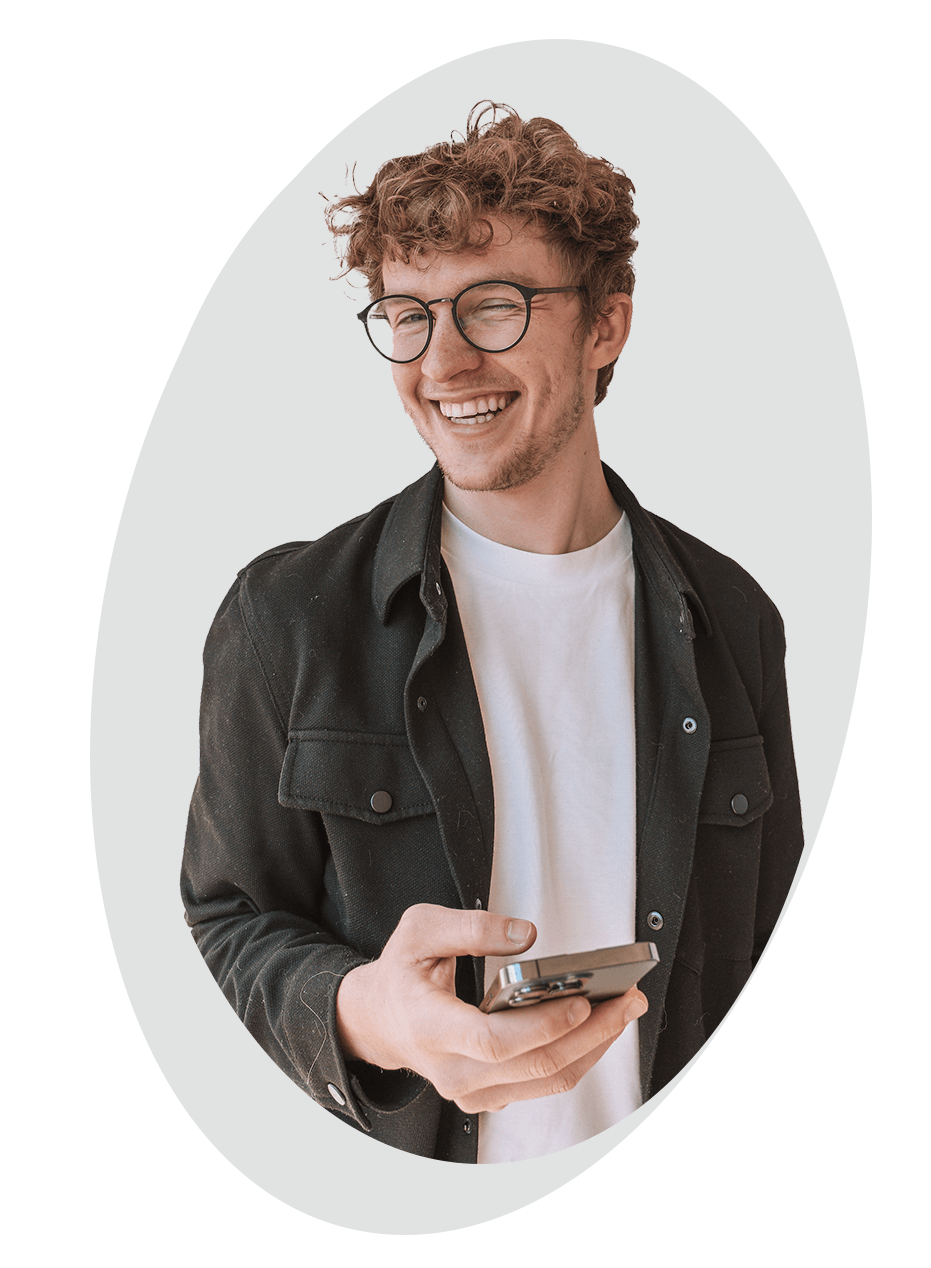
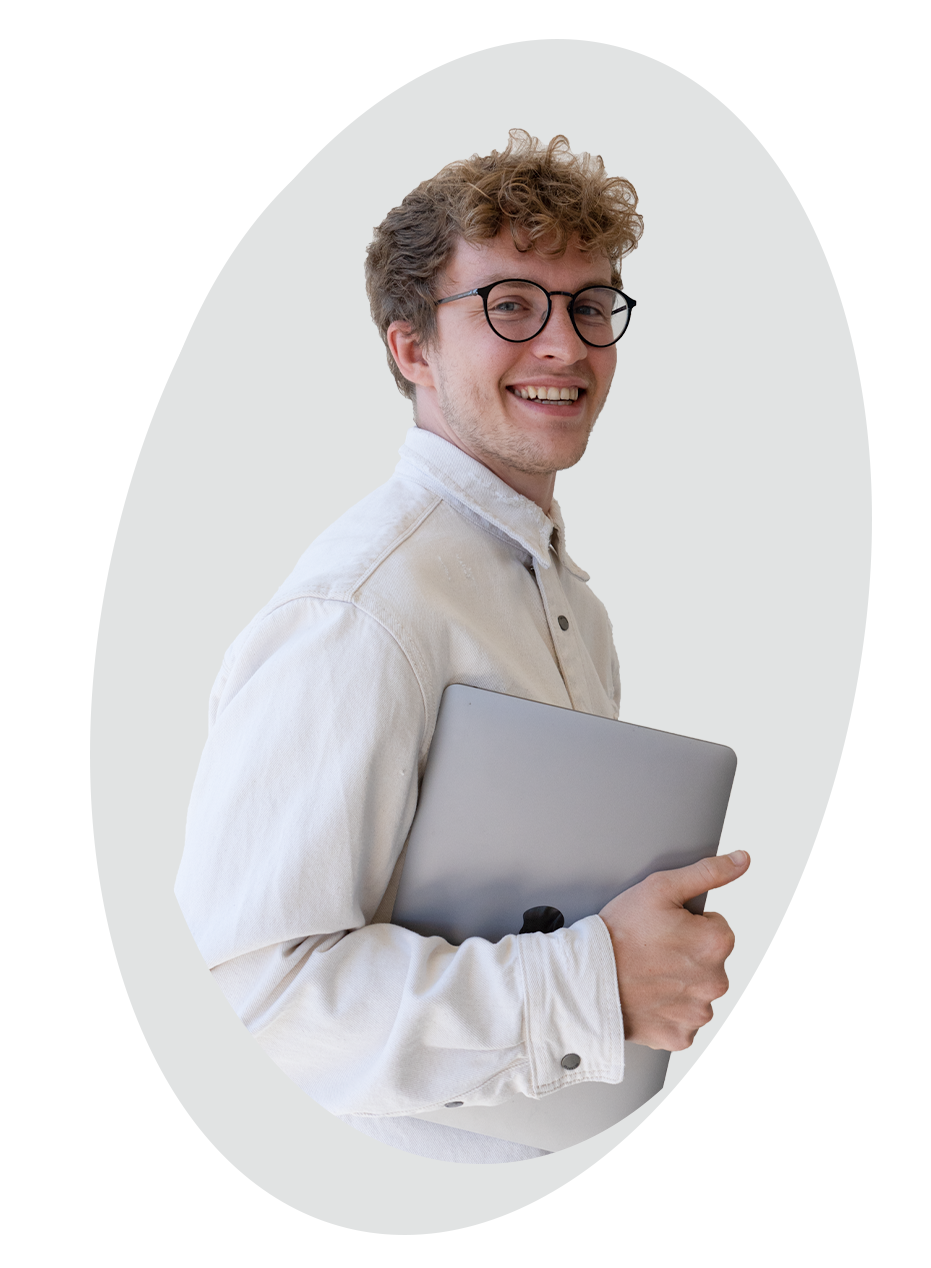
test

diff --git a/index.html b/index.html
@@ -7,7 +7,7 @@ hide-from-google: false
 
 
 <!-------     Sticky Phone      -->
-<div class=" phone text-center mob-show ">
+<div class=" phone text-center show-sm ">
     <a href="tel:+436602747539"><i class="fa-solid fa-phone"></i></a>
   </div>
 
@@ -89,7 +89,7 @@ hide-from-google: false
         <!----   Oval Image-->
 
         <div class="col-4-middle right hide-sm">
-          <img src="/images/daniel.png" width="85%">
+          <img src="/images/daniel-2.png" width="85%">
         </div>
 
         <!----   Text       -->
